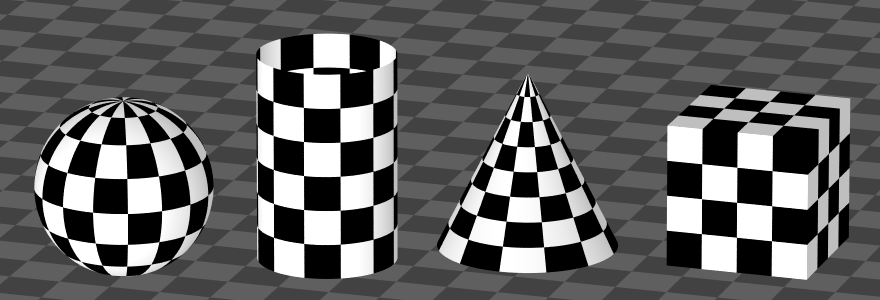
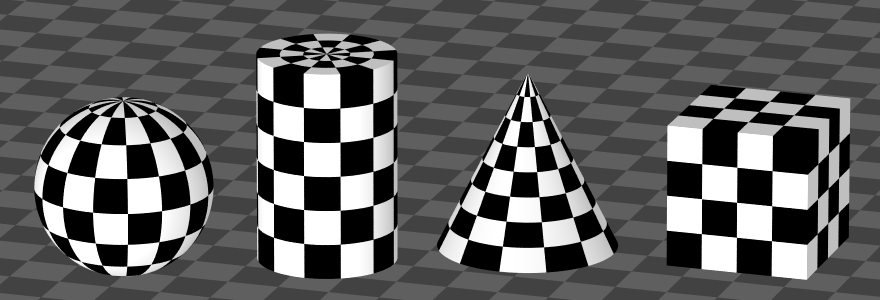
fixed render code for figure 30.04

Changed region(s): [[0.2761, 0.09, 0.4602, 0.27]]

diff --git a/build/chapter30/BuildFigure30_04.cpp b/build/chapter30/BuildFigure30_04.cpp
@@ -21,6 +21,7 @@
 #include "Textures/DiskChecker.h"
 #include "Textures/ConeChecker.h"
 #include "Textures/PlaneChecker.h"
+#include "Materials/Matte.h"
 #include "Materials/SV_Matte.h"
 #include "GeometricObjects/Box.h"
 #include "GeometricObjects/Plane.h"
@@ -55,7 +56,7 @@ void World::build() {
 	light_ptr1->set_direction(0, 0, 1);
 	light_ptr1->scale_radiance(1.5);
 	add_light(light_ptr1);
-	
+
 	// sphere
 	SphereChecker* sphere_checker_ptr = new SphereChecker;
 	sphere_checker_ptr->set_num_horizontal_checkers(16);
@@ -76,7 +77,6 @@ void World::build() {
 	sphere_ptr->scale(Vector3D{2.5});
 	sphere_ptr->translate({-9.5, -1, 0});
 	add_object(sphere_ptr);
-
 	
 	// cylinder
 	
@@ -134,7 +134,6 @@ void World::build() {
 	cylinder_ptr->translate({-3.5, 0.5, 0});
 	add_object(cylinder_ptr);
 	
-
 	// cone
 	ConeChecker* cone_checker_ptr = new ConeChecker;
 	cone_checker_ptr->set_num_horizontal_checkers(12);
@@ -244,7 +243,6 @@ void World::build() {
 	box_ptr->scale(Vector3D{2.0});
 	box_ptr->translate({9, 1, 0});
 	add_object(box_ptr);
-	
 	
 	// ground plane
 	PlaneChecker* plane_checker_ptr = new PlaneChecker;

diff --git a/GeometricObjects/Disk.cpp b/GeometricObjects/Disk.cpp
@@ -2,9 +2,7 @@
 #include "Disk.h"
 
 Disk::Disk()
-	: _r{0}
-	, _r_squared{0}
-	, _inv_area{0}
+	: Disk{{0,0,0}, {0,1,0}, 1.0}
 {}
 
 Disk::Disk(Point3D const & center, Normal const & normal, double radius)
